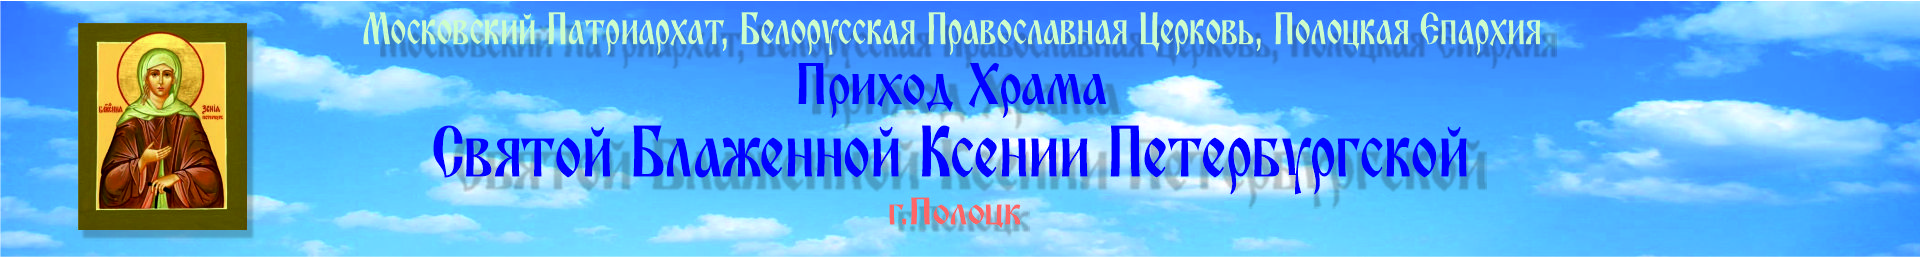
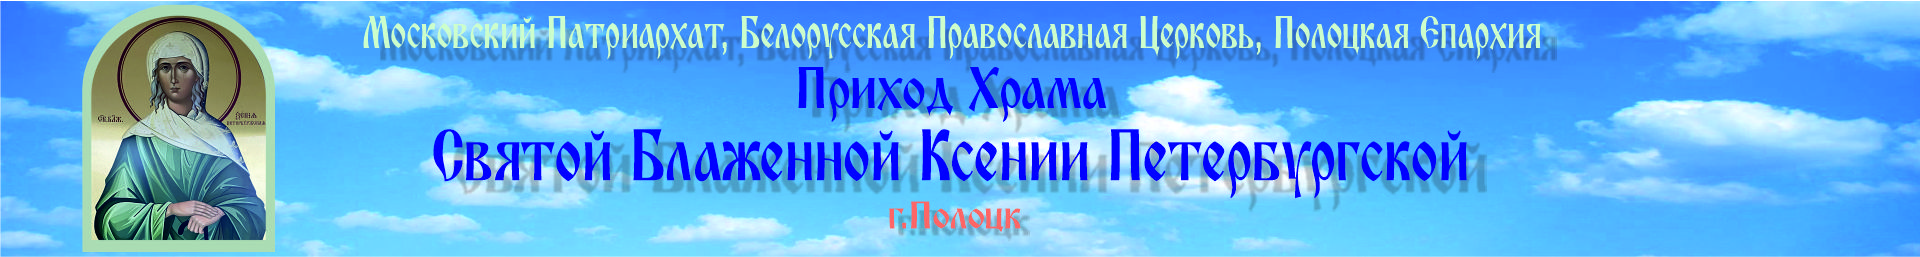
P-[14]

Changed region(s): [[0.1875, 0.0311, 0.8125, 0.9339], [0.0312, 0.0, 0.1562, 0.9961]]

diff --git a/templates/index.html b/templates/index.html
@@ -3,21 +3,21 @@
 {% block content %}
     <div class="container">
         <h1>Храм Святой Блаженной Ксении Петербургской</h1>
-        <p>
-            Долгожданным и значимым стало открытие 6 февраля 2020г. первого православного храма в микрорайоне Мариненко
-            г. Полоцка, освященного в честь святой блаженной Ксении Петербургской,
-            и Центра гуманитарной помощи «Благо Дать» Прихода храма Покрова Пресвятой Богородицы г. Полоцк Полоцкой
-            епархии.</p>
-        <p>В храм приходят, в основном, жители микрорайона «Мариненко» разного возраста.
-            Они сначала участвуют в богослужении, а потом в непринужденной атмосфере общаются со священнослужителем
-            Отцом Алексием и матушкой Татьяной.
-        </p>
-        <p>
-            Мы стараемся создать для всех пришедших комфортные условия, поэтому люди, побывав в нашем храме однажды,
-            приходят снова. Мы рады семьям и мамам с детьми, ребята у нас играют, рисуют.
-            Мы приглашаем всех присоединиться к дружным прихожанам храма.
-        </p>
-
+        <div class="index-content">
+            <p>
+                Долгожданным и значимым стало открытие 6 февраля 2020г. первого православного храма в микрорайоне
+                Мариненко
+                г. Полоцка, освященного в честь святой блаженной Ксении Петербургской,
+                и Центра гуманитарной помощи «Благо Дать» Прихода храма Покрова Пресвятой Богородицы г. Полоцк Полоцкой
+                епархии. <br>
+                В храм приходят, в основном, жители микрорайона «Мариненко» разного возраста.
+                Они сначала участвуют в богослужении, а потом в непринужденной атмосфере общаются со священнослужителем
+                Отцом Алексием и матушкой Татьяной. <br>
+                Мы стараемся создать для всех пришедших комфортные условия, поэтому люди, побывав в нашем храме однажды,
+                приходят снова. Мы рады семьям и мамам с детьми, ребята у нас играют, рисуют.
+                Мы приглашаем всех присоединиться к дружным прихожанам храма.
+            </p>
+        </div>
 
     </div>
 

diff --git a/templates/contacts.html b/templates/contacts.html
@@ -3,42 +3,37 @@
 {% block content %}
     <h1>{{ title }}</h1>
 
-    <div class="container">
-        <div class="col-md-12">
+    <div class="container" >
+        <div class="col-md-12 addr">
+
             <h3>Мы находимся</h3>
             <p>г. Полоцк,
-                ул. Мариненко, 24, помещение 88</p>
-            <p><span>Телефон :</span> + 375 29 573-56-41</p>
+                ул. Мариненко, 24, помещение 88
+                <br><span>Телефон :</span> + 375 29 573-56-41</p>
+            <div class="address">
             <p class="contact">
                 <b>Режим работы</b>
-                Понедельник - выходной
-                Вторник - 10.00 - 16.00
-                Среда - 10.00 - 16.00
-                Четверг - выходной
-                Пятница - 10.00 - 16.00
-                Суббота - 10.00 - 16.00
-                Воскресенье - 10.00 - 16.00
+                <br>Понедельник - выходной
+                <br>Вторник - 10.00 - 16.00
+                <br>Среда - 10.00 - 16.00
+                <br>Четверг - выходной
+                <br>Пятница - 10.00 - 16.00
+                <br>Суббота - 10.00 - 16.00
+                <br>Воскресенье - 10.00 - 16.00
 
             </p>
-        </div>
 
-
-{#        <div class="col-md-4 ma">#}
-{#            <h3>Мы на карте</h3>#}
-{#        </div>#}
-{#        <div style="position:relative;overflow:hidden;"><a#}
-{#                href="https://yandex.by/maps/org/khram_svyatoy_blazhennoy_ksenii_peterburgskoy/63171879544/?utm_medium=mapframe&utm_source=maps"#}
-{#                style="color:#eee;font-size:12px;position:absolute;top:0px;">Храм святой блаженной Ксении#}
-{#            Петербургской</a><a#}
-{#                href="https://yandex.by/maps/10275/polotsk/category/orthodox_church/53436519791/?utm_medium=mapframe&utm_source=maps"#}
-{#                style="color:#eee;font-size:12px;position:absolute;top:14px;">Православный храм в Полоцке</a>#}
-{#            <iframe src="https://yandex.by/map-widget/v1/?ll=28.763055%2C55.469377&mode=poi&poi%5Bpoint%5D=28.762582%2C55.469582&poi%5Buri%5D=ymapsbm1%3A%2F%2Forg%3Foid%3D63171879544&utm_source=main_stripe_big&z=19.8"#}
-{#                    width="560" height="400" frameborder="1" allowfullscreen="true" style="position:relative;"></iframe>#}
-{#        </div>#}
+        <iframe src="https://www.google.com/maps/embed?pb=!1m18!1m12!1m3!1d2261.6044491149974!2d28.76024701603809!3d55.
+        46956202126851!2m3!1f0!2f0!3f0!3m2!1i1024!2i768!4f13.1!3m3!1m2!1s0x46c491a7832c9801%3A0xcdf4187d95d83d40!2z0KXRg
+        NCw0Lwg0YHQstGP0YLQvtC5INCx0LvQsNC20LXQvdC90L7QuSDQmtGB0LXQvdC40Lgg0J_QtdGC0LXRgNCx0YPRgNCz0YHQutC-0Lk!5e0!3m2!1s
+        ru!2sby!4v1674832322283!5m2!1sru!2sby"
+                width="450" height="300" style="border-radius:15px;" allowfullscreen="" loading="lazy"
+                referrerpolicy="no-referrer-when-downgrade"></iframe>
 
     </div>
+   </div>
 
-
+</div>
 
 
 {% endblock %}

diff --git a/static/style.css b/static/style.css
@@ -16,21 +16,17 @@ html {
 * {
     margin: 0;
     padding: 0;
-
 }
 
 li {
     display: inline-block;
     margin: 10px;
     font-size: 20px;
-
-
 }
 
 ul {
     font-family: sans-serif;
     font-weight: bold;
-
 }
 
 a {
@@ -47,7 +43,6 @@ body {
 .content {
     text-align: justify;
     white-space: pre-wrap;
-
 }
 
 .content h2 {
@@ -61,6 +56,7 @@ body {
 
 p, h2, h3, a, h4 {
     font-family: Vezitsa;
+    color: darkblue;
 }
 
 .news_content {
@@ -86,9 +82,29 @@ p, h2, h3, a, h4 {
 }
 
 .news {
-    display: flex;
-    flex-wrap: wrap;
-    justify-content: center;
+    /*display: flex;*/
+    /*flex-wrap: wrap;*/
+    /*justify-content: center;*/
+    font-size: 24px;
+    line-height: 90%;
+}
+.news p {
+    /*display: flex;*/
+    /*flex-wrap: wrap;*/
+    /*justify-content: center;*/
+    font-size: 24px;
+    font-family: Vezitsa, serif;
+    color: #83530c;
+
+}
+.news span{
+    /*display: flex;*/
+    /*flex-wrap: wrap;*/
+    /*justify-content: center;*/
+    font-size: 24px;
+    font-family: Vezitsa, serif;
+    color: #83530c;
+
 }
 
 h1 {
@@ -104,7 +120,9 @@ h1 {
 }
 
 .contact {
-    white-space: pre-wrap;
+    /*white-space: pre-wrap;*/
+    font-size: 22px;
+    color: darkblue;
 }
 
 .container-fluid {
@@ -138,16 +156,28 @@ h1 {
 
 .priest img {
     /*float: inside;*/
-    width: 20%;
+    width: 30%;
+    height: 30%;
+    float: right;
+    margin: 10px 50px  10px 10px;
+    border-radius: 20px;
+    box-shadow: 10px 5px 5px #7b7373;
 }
 
 .priest p {
-    white-space: pre-wrap;
+    color: darkblue;
+    font-size: 22px;
+}
+
+.prst  {
+    text-align: center;
+    color:blue;
 }
 
 .icon-content {
     font-size: 18px;
     text-align: justify;
+    color: darkblue;
     /*white-space: pre-wrap;*/
 }
 
@@ -160,8 +190,10 @@ h1 {
 
 .icon-content img {
     width: 40%;
+    height: auto;
     float: right;
     margin: 10px;
+    border-radius: 20px;
 }
 
 .h-img {
@@ -182,8 +214,31 @@ footer {
     justify-content: center;
     align-items: center;
     position: relative;
+}
 
+.index-content {
+    color: darkblue;
+    font-size: 22px;
+    text-align: justify;
+}
 
+.btn a{
+    color: #7b7373;
+}
 
+.address p {
+    font-size: 24px;
+    color: blue;
+}
 
+.address {
+    display: flex;
+}
+
+.addr{
+    font-size: 24px;
+}
+
+iframe {
+    margin-left: 50px;
 }

diff --git a/templates/priest.html b/templates/priest.html
@@ -2,22 +2,24 @@
 
 {% block content %}
     <div class="container">
+    <div class="prst">
         <h1>{{ title }}</h1>
         <h2>Алексей Викторович Кушнеревич</h2>
+        </div>
         <div class="priest">
 
             <img src="/static/img/priest.png" alt="">
 
             <p>
-                Дата хиротонии: 08.08.2010г.
-                Духовное образование:
-                Минская Духовная Семинария (2010г.)
-                Клирик Прихода храма Покрова Пресвятой Богородицы г. Полоцк
-
-                Приходы:
-                Приход храма Святой Блаженной Ксении Петербургской, г. Полоцк
-                Приход храма Преображения Господня, д. Шпаковщина
-                Приход храма Святителя Николая Чудотворца, д. Бабыничи
+                <br>Дата хиротонии: 08.08.2010г.
+                <br>Духовное образование:
+                <br>Минская Духовная Семинария (2010г.)
+                <br>Клирик Прихода храма Покрова Пресвятой Богородицы г. Полоцк
+                <br>
+                <br>Приходы:
+                <br>Приход храма Святой Блаженной Ксении Петербургской, г. Полоцк
+                <br>Приход храма Преображения Господня, д. Шпаковщина
+                <br>Приход храма Святителя Николая Чудотворца, д. Бабыничи
 
             </p>
 

diff --git a/templates/news.html b/templates/news.html
@@ -1,19 +1,19 @@
 {% extends 'base.html' %}
 {% block content %}
-    <div class="container">
+    <div class="container news">
         <h1>{{ title }}</h1>
     <div>
         {% for news in news_total|sort(attribute='news_date', reverse=true) %}
-            <p>Создано {{ news['news_date'].strftime('%d %B %Y') }}</p>
+            <span>Создано {{ news['news_date'].strftime('%d %B %Y') }}</span><br>
             <a href="{{ url_for('news_page', nws_id=news['id']) }}" class="card-link">{{ news['news_headline'] }}</a>
             <br><br>
         {% endfor %}
     </div>
-        <br>
+
         {% for i in range(string_result) %}
-            <p>{{ pub_date[i].text }}</p>
-            <p><a href="https://eparhia992.by/{{ name_result[i].get('href') }}">{{ name_result[i].text }}</a></p>
-            <br>
+            <span>{{ pub_date[i].text }}</span><br>
+            <a href="https://eparhia992.by/{{ name_result[i].get('href') }}">{{ name_result[i].text }}</a>
+            <br><br>
         {% endfor %}
     </div>
 

diff --git a/templates/icon.html b/templates/icon.html
@@ -4,7 +4,7 @@
     <div class="container">
         <h1>{{ title }}</h1>
         <div class="icon-content">
-            <img src="/static/img/Kseniya.jpg"
+            <img src="/static/img/xseniya.png"
                  alt="">
             <h4>Святая блаженная Ксения Петербургская</h4>
             <p>Блаженная Ксения Петербургская еще при жизни и на протяжении XIX-XX веков почиталась скорой

diff --git a/templates/base.html b/templates/base.html
@@ -68,7 +68,7 @@
                     <section class="">
                         <p class="d-flex justify-content-center align-items-center">
                             <button type="button" class="btn btn-outline-light btn-rounded">
-                                <a href="{{ url_for('login') }}">Sign in!</a>
+                                <a href="{{ url_for('login') }}">Вход</a>
                             </button>
                         </p>
                     </section>
